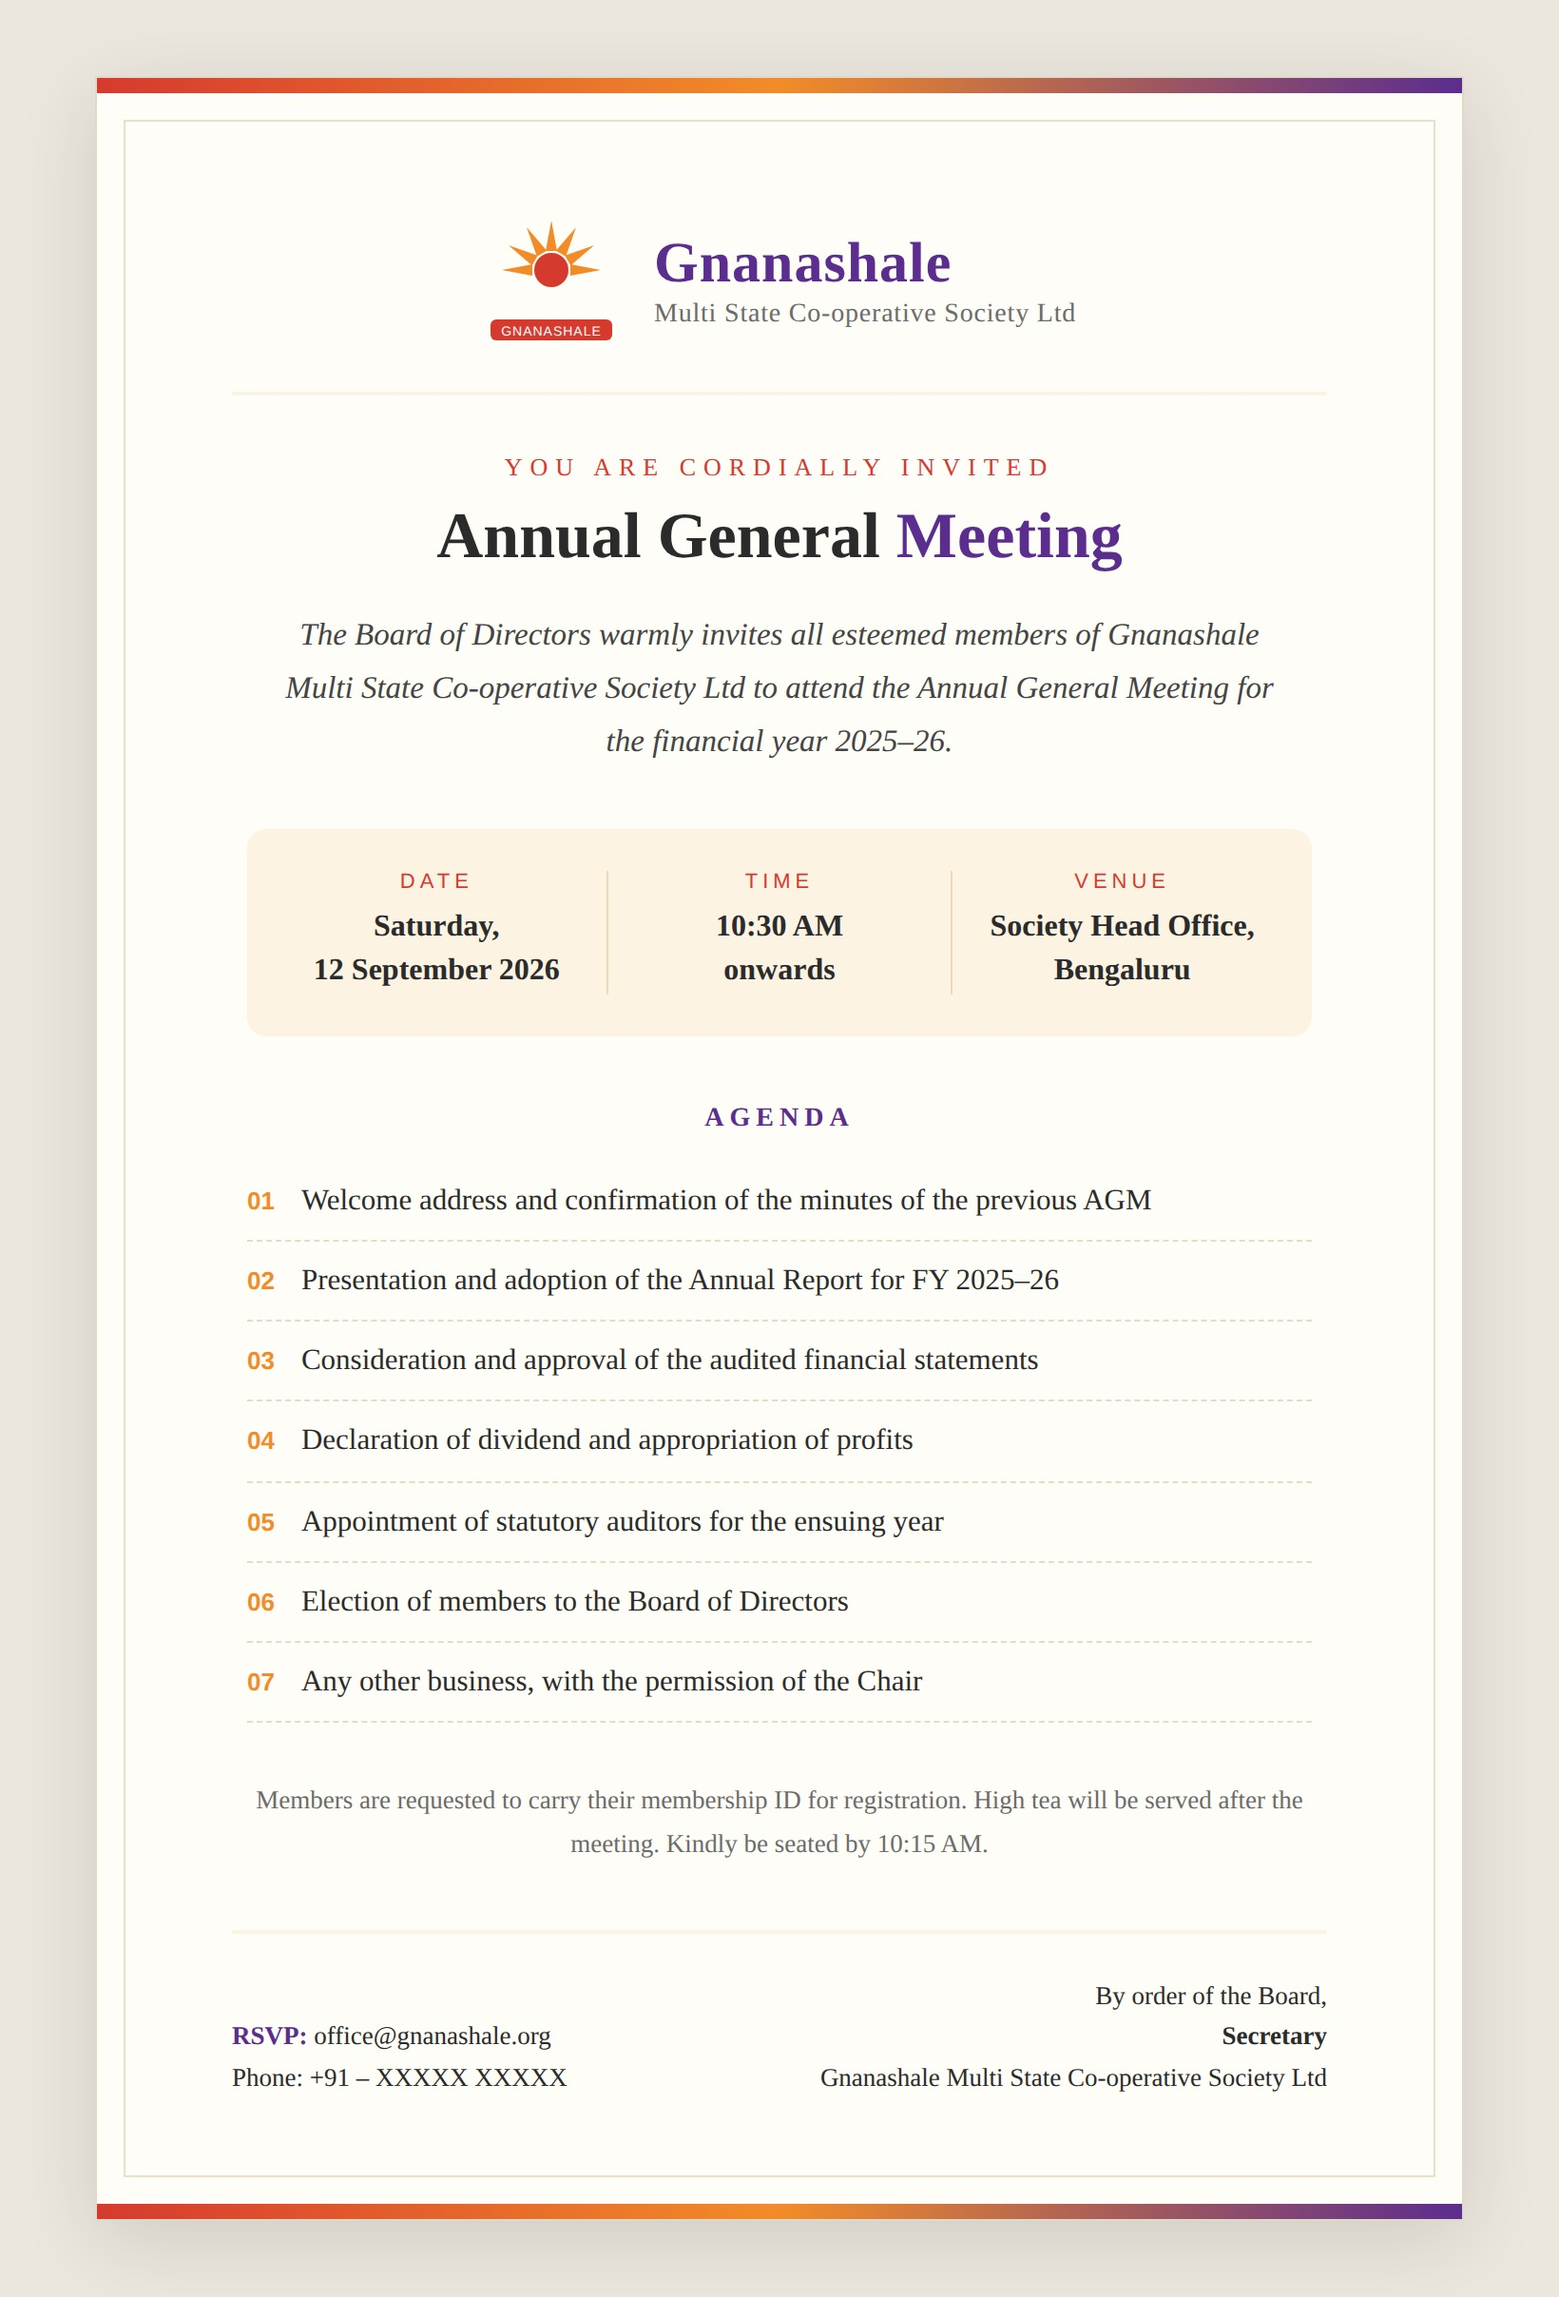
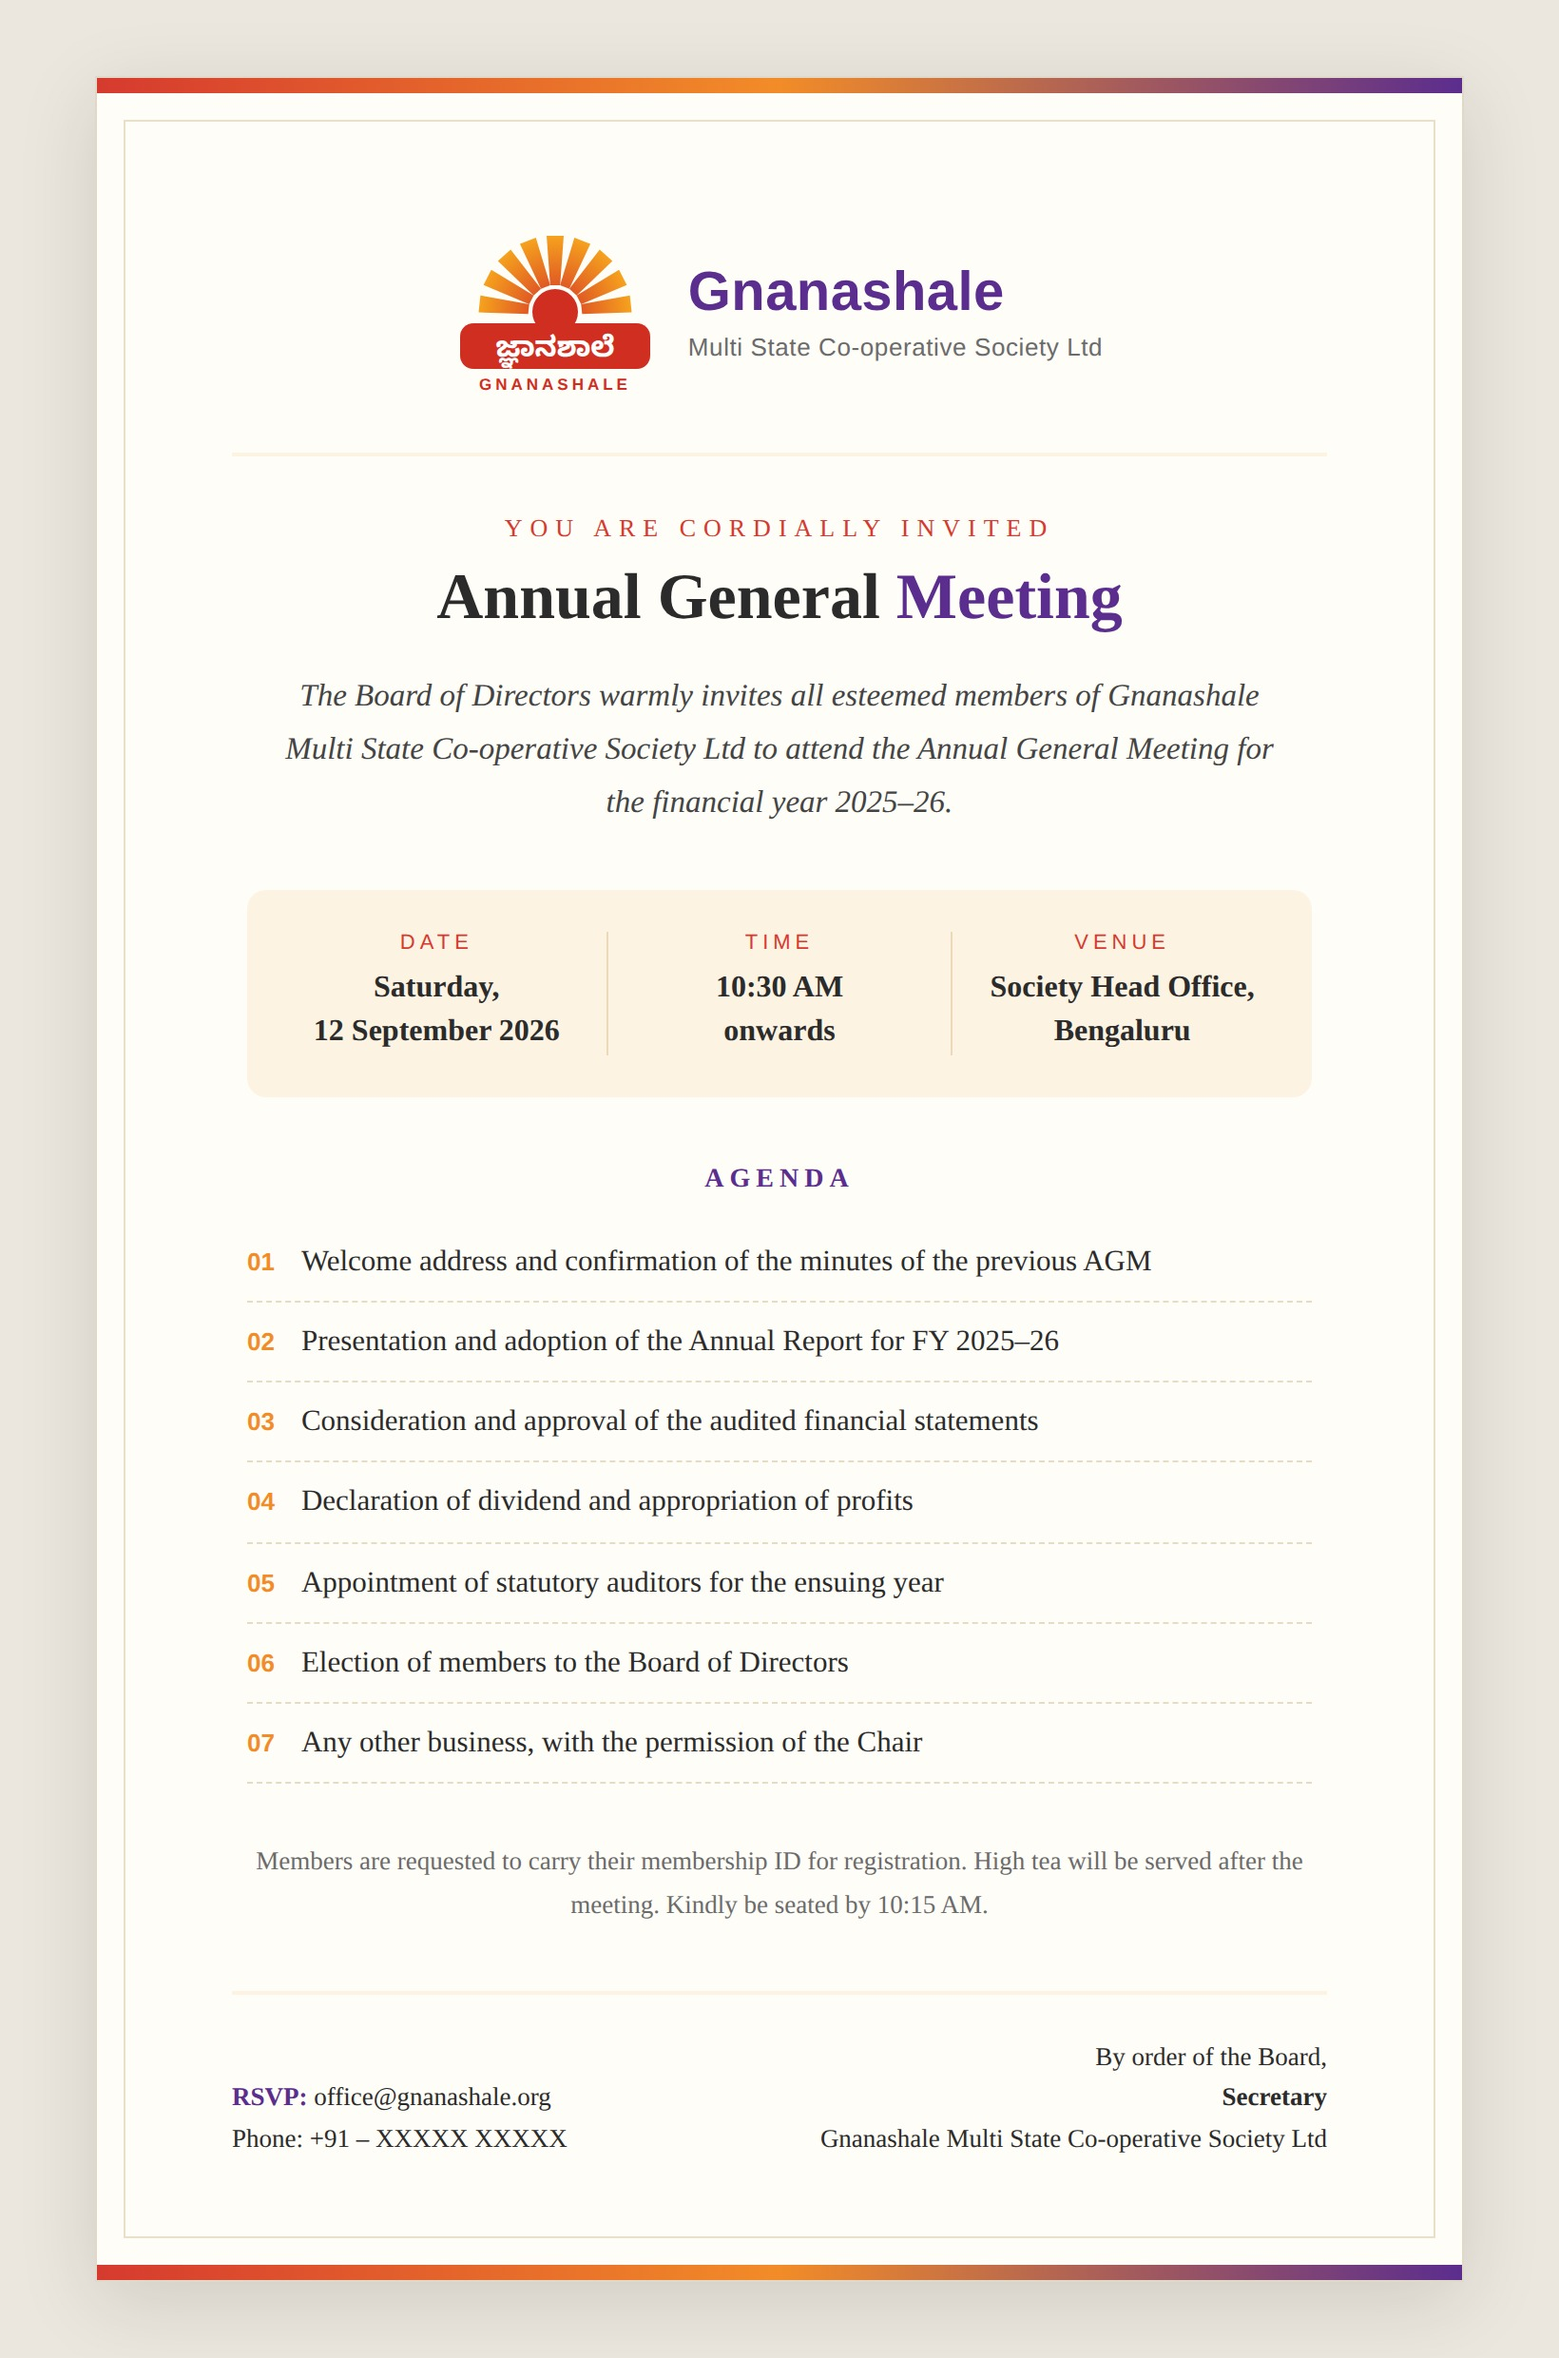
Match invitation emblem to actual Gnanashale branding
Rebuild the emblem SVG to mirror the society's logo: gradient orange
sunburst rays over a red sun, red ribbon carrying white Kannada
'ಜ್ಞಾನಶಾಲೆ' text (Noto Sans Kannada embedded as base64 woff2 so the
file stays self-contained), with GNANASHALE lettering beneath, and a
purple sans-serif wordmark. Regenerate the JPEG render.

Claude-Session: https://claude.ai/code/session_014jnkfGSjdp5xrcLSv7jZmL

diff --git a/gnanashale-agm-invitation.html b/gnanashale-agm-invitation.html
@@ -5,6 +5,12 @@
 <meta name="viewport" content="width=device-width, initial-scale=1.0">
 <title>Gnanashale AGM Invitation</title>
 <style>
+  @font-face {
+    font-family: 'Noto Sans Kannada';
+    font-weight: 700;
+    font-style: normal;
[1 lines of base64/hex data omitted]
+  }
   :root {
     --brand-red: #d63a2f;
     --brand-orange: #f28c28;
@@ -51,16 +57,18 @@
   }
   .emblem { flex: 0 0 auto; }
   .org h1 {
-    font-size: 30px;
+    font-family: Verdana, 'Trebuchet MS', Arial, sans-serif;
+    font-size: 29px;
     color: var(--brand-purple);
-    letter-spacing: 0.5px;
+    letter-spacing: 0.2px;
     font-weight: 700;
   }
   .org p {
-    font-size: 14px;
+    font-family: Verdana, 'Trebuchet MS', Arial, sans-serif;
+    font-size: 13px;
     color: var(--muted);
-    margin-top: 2px;
-    letter-spacing: 0.4px;
+    margin-top: 4px;
+    letter-spacing: 0.3px;
   }
   .eyebrow {
     text-align: center;
@@ -201,21 +209,34 @@
     <div class="band"></div>
     <div class="inner">
       <header>
-        <svg class="emblem" width="72" height="72" viewBox="0 0 72 72" aria-hidden="true">
-          <g transform="translate(36,30)">
-            <g fill="#f28c28">
-              <path d="M0-26 L3-10 L-3-10 Z" transform="rotate(0)"/>
-              <path d="M0-26 L3-10 L-3-10 Z" transform="rotate(30)"/>
-              <path d="M0-26 L3-10 L-3-10 Z" transform="rotate(60)"/>
-              <path d="M0-26 L3-10 L-3-10 Z" transform="rotate(90)"/>
-              <path d="M0-26 L3-10 L-3-10 Z" transform="rotate(-30)"/>
-              <path d="M0-26 L3-10 L-3-10 Z" transform="rotate(-60)"/>
-              <path d="M0-26 L3-10 L-3-10 Z" transform="rotate(-90)"/>
+        <svg class="emblem" width="104" height="104" viewBox="0 0 104 104" aria-hidden="true">
+          <defs>
+            <linearGradient id="ray" x1="0" y1="0" x2="0" y2="1">
+              <stop offset="0" stop-color="#f6a21e"/>
+              <stop offset="1" stop-color="#e05a24"/>
+            </linearGradient>
+          </defs>
+          <g transform="translate(52,52)">
+            <g fill="url(#ray)">
+              <path d="M-2.6-14 L-4.5-40 L4.5-40 L2.6-14 Z" transform="rotate(-84)"/>
+              <path d="M-2.6-14 L-4.5-40 L4.5-40 L2.6-14 Z" transform="rotate(-63)"/>
+              <path d="M-2.6-14 L-4.5-40 L4.5-40 L2.6-14 Z" transform="rotate(-42)"/>
+              <path d="M-2.6-14 L-4.5-40 L4.5-40 L2.6-14 Z" transform="rotate(-21)"/>
+              <path d="M-2.6-14 L-4.5-40 L4.5-40 L2.6-14 Z" transform="rotate(0)"/>
+              <path d="M-2.6-14 L-4.5-40 L4.5-40 L2.6-14 Z" transform="rotate(21)"/>
+              <path d="M-2.6-14 L-4.5-40 L4.5-40 L2.6-14 Z" transform="rotate(42)"/>
+              <path d="M-2.6-14 L-4.5-40 L4.5-40 L2.6-14 Z" transform="rotate(63)"/>
+              <path d="M-2.6-14 L-4.5-40 L4.5-40 L2.6-14 Z" transform="rotate(84)"/>
             </g>
-            <circle r="9" fill="#d63a2f"/>
+            <circle r="12" fill="#cf2e21"/>
           </g>
-          <rect x="4" y="56" width="64" height="11" rx="3" fill="#d63a2f"/>
-          <text x="36" y="64.5" text-anchor="middle" font-family="Arial, sans-serif" font-size="7" fill="#fff" letter-spacing="0.5">GNANASHALE</text>
+          <rect x="2" y="58" width="100" height="24" rx="7" fill="#cf2e21"/>
+          <text x="52" y="75.5" text-anchor="middle"
+                font-family="'Noto Sans Kannada', sans-serif" font-weight="700"
+                font-size="15" fill="#ffffff">ಜ್ಞಾನಶಾಲೆ</text>
+          <text x="52" y="93" text-anchor="middle"
+                font-family="Arial, Helvetica, sans-serif" font-weight="700"
+                font-size="8.5" fill="#cf2e21" letter-spacing="2">GNANASHALE</text>
         </svg>
         <div class="org">
           <h1>Gnanashale</h1>
